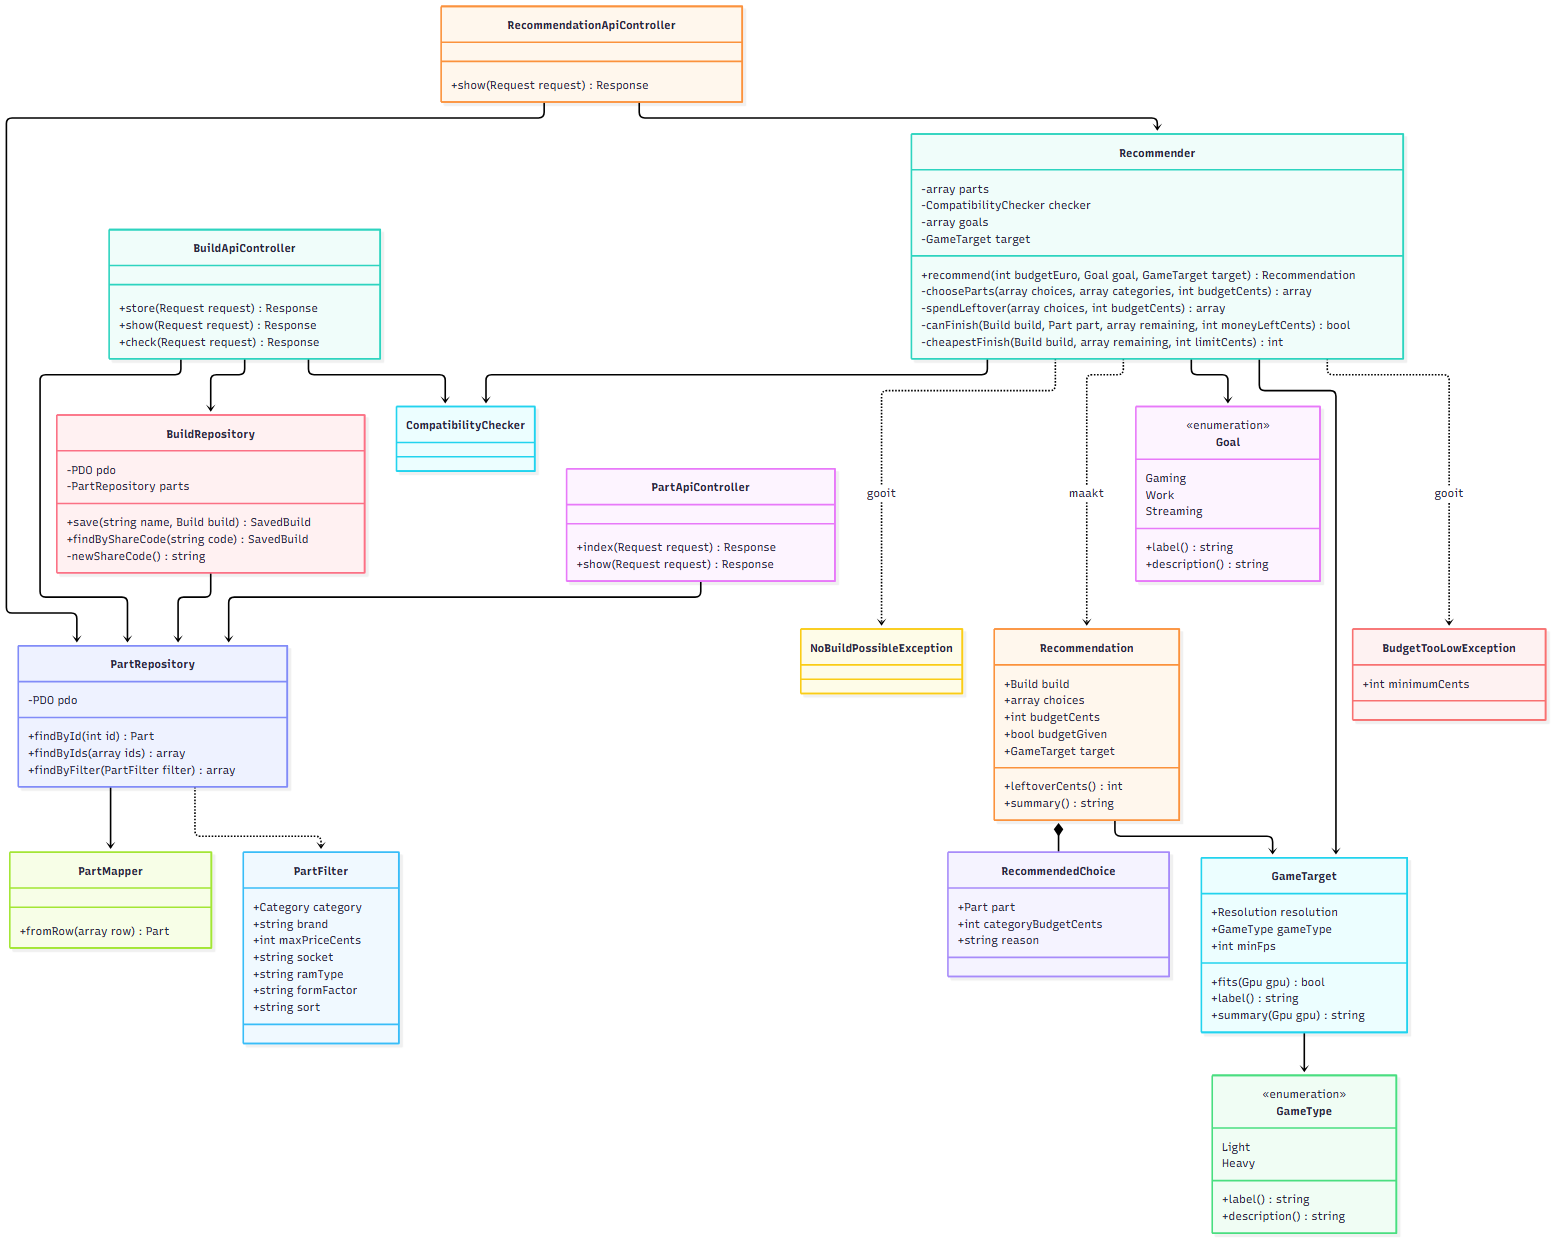
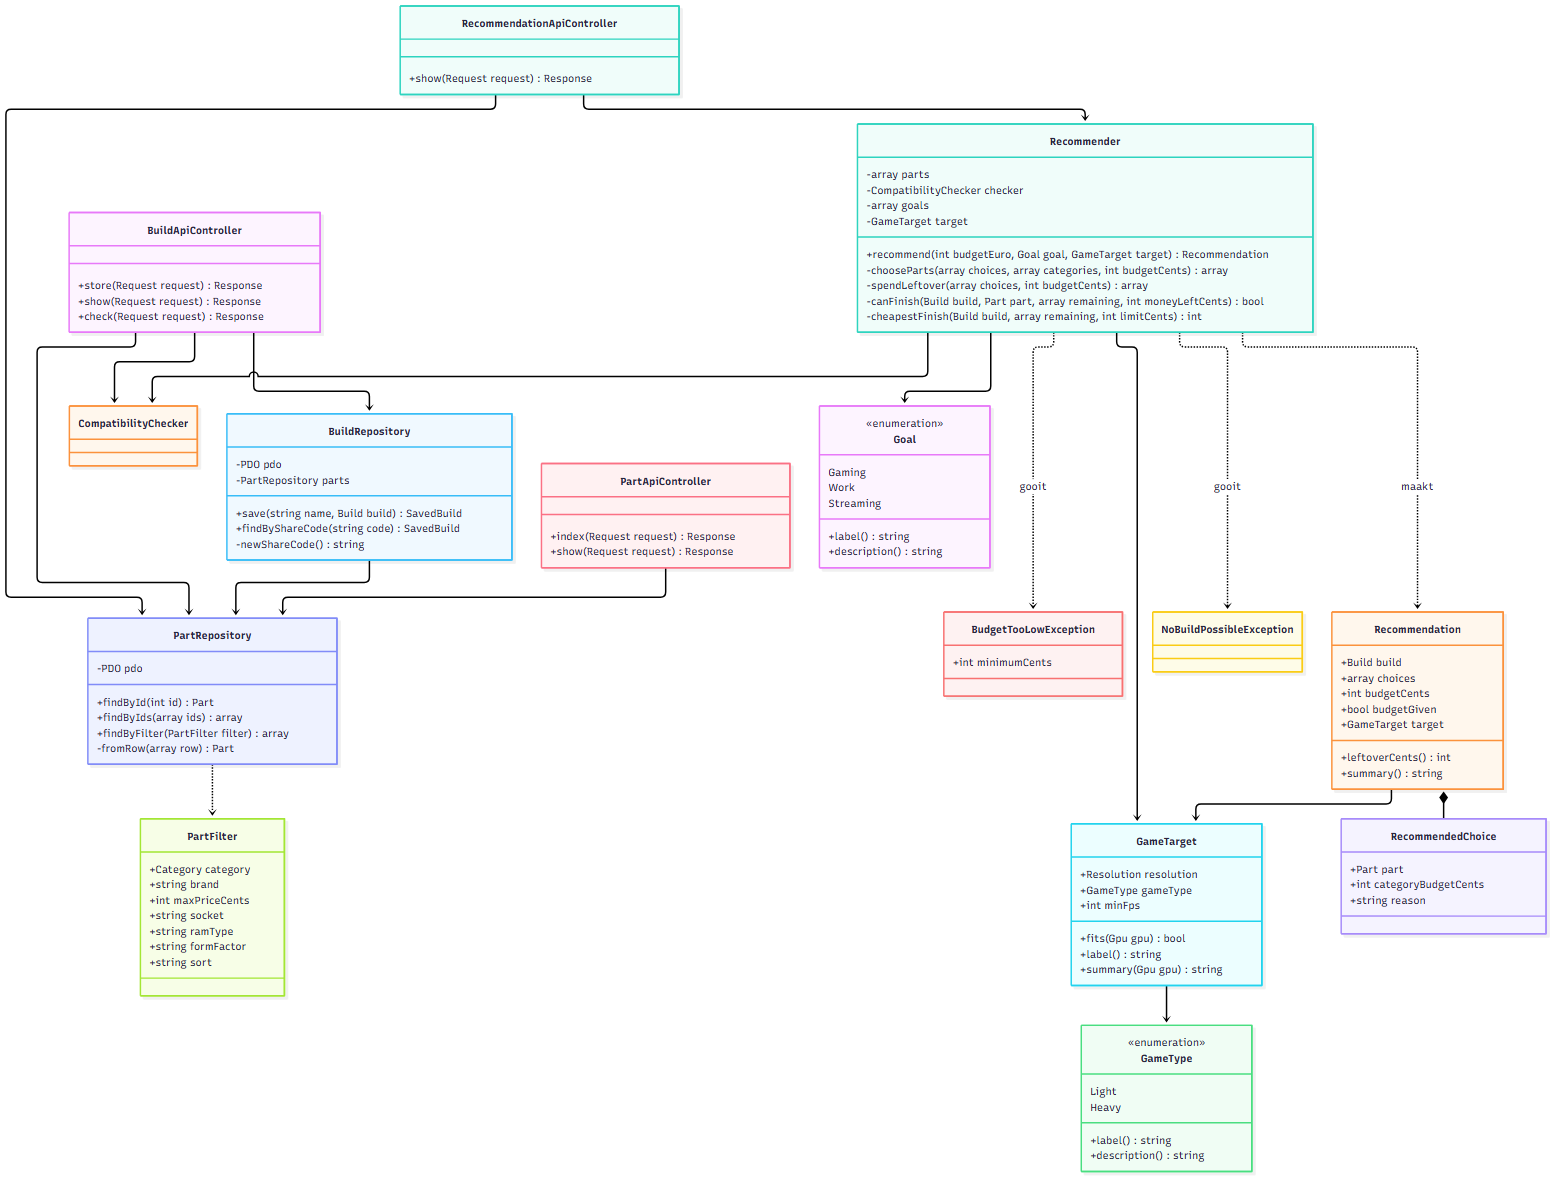
docs: ontwerp bijgewerkt na de refactor (#30)

diff --git a/docs/ontwerp.md b/docs/ontwerp.md
@@ -315,7 +315,6 @@ classDiagram
         +gpu() Gpu
         +cooler() Cooler
         +pcCase() PcCase
-        +storage() StorageDrive
         +psu() Psu
     }
     class SavedBuild {
@@ -351,26 +350,19 @@ De klasse voor een kast heet `PcCase`, omdat `case` in PHP een gereserveerd woor
 
 ```mermaid
 classDiagram
-    class CompatibilityRule {
-        <<interface>>
-        +name() string
-        +requiredCategories() array
-        +evaluate(Build build) RuleResult
-    }
-    class SocketRule
-    class RamTypeRule
-    class FormFactorRule
-    class PsuWattageRule {
-        -int marginPercent
-    }
-    class GpuLengthRule
-    class CoolerHeightRule
-    class IntegratedGraphicsRule
     class CompatibilityChecker {
-        -array rules
-        +withAllRules(int psuMarginPercent) CompatibilityChecker$
+        -array RULES$
+        -int psuMarginPercent
         +check(Build build) CheckReport
         +problemsFor(Build build, Part candidate) array
+        -runRule(string rule, Build build) RuleResult
+        -socketRule(Build build) array
+        -ramTypeRule(Build build) array
+        -formFactorRule(Build build) array
+        -psuWattageRule(Build build) array
+        -gpuLengthRule(Build build) array
+        -coolerHeightRule(Build build) array
+        -graphicsRule(Build build) array
     }
     class CheckReport {
         +array results
@@ -404,23 +396,15 @@ classDiagram
         +label() string
     }
 
-    CompatibilityRule <|.. SocketRule
-    CompatibilityRule <|.. RamTypeRule
-    CompatibilityRule <|.. FormFactorRule
-    CompatibilityRule <|.. PsuWattageRule
-    CompatibilityRule <|.. GpuLengthRule
-    CompatibilityRule <|.. CoolerHeightRule
-    CompatibilityRule <|.. IntegratedGraphicsRule
-    CompatibilityChecker o-- CompatibilityRule : voert uit
     CompatibilityChecker ..> CheckReport : maakt
     CheckReport *-- RuleResult
     RuleResult --> CheckStatus
     CheckReport ..> OverallStatus
 ```
 
-Elke regel is een eigen klasse met dezelfde interface. De `CompatibilityChecker` kijkt eerst met `requiredCategories()` of de onderdelen voor een regel gekozen zijn. Is dat niet zo, dan maakt de checker zelf een resultaat "nog niet gecontroleerd". Pas als alles er is, roept hij `evaluate()` aan. Zo staat de controle op ontbrekende onderdelen maar op één plek. Een nieuwe regel toevoegen (zoals F-21) betekent: één nieuwe klasse schrijven en die aan de lijst van de checker toevoegen.
+Alle regels staan in de `CompatibilityChecker`, elke regel in een eigen private methode, zoals `socketRule()`. De constante `RULES` zegt per regel welke onderdelen nodig zijn. `runRule()` kijkt eerst of die onderdelen gekozen zijn. Is dat niet zo, dan geeft hij zelf het resultaat "nog niet gecontroleerd". Pas als alles er is, roept hij de methode van de regel aan. Die geeft een status en een melding terug. Zo staat de controle op ontbrekende onderdelen maar op één plek. Een nieuwe regel toevoegen betekent: een regel in `RULES`, een regel in de `match` van `runRule()` en een nieuwe methode.
 
-`withAllRules()` maakt een checker met alle zeven regels. De marge van de voeding komt uit `config/app.php`.
+Tot 3 november was elke regel een eigen klasse met een interface `CompatibilityRule`. Waarom dat veranderd is, staat in [keuzes.md](keuzes.md). De marge van de voeding komt via de constructor uit `config/app.php`.
 
 `problemsFor()` wordt gebruikt om onderdelen grijs te maken (F-12): de checker probeert het onderdeel in een kopie van de build en geeft de fouten en waarschuwingen terug die dat oplevert. Een probleem telt mee als de regel over dit onderdeel gaat, of als het probleem er zonder dit onderdeel niet was. Zo krijgt een videokaart die de voeding overbelast ook een melding, en krijgt een SSD niet de schuld van een verkeerde socket.
 
@@ -485,9 +469,7 @@ classDiagram
         +findById(int id) Part
         +findByIds(array ids) array
         +findByFilter(PartFilter filter) array
-    }
-    class PartMapper {
-        +fromRow(array row) Part
+        -fromRow(array row) Part
     }
     class PartFilter {
         +Category category
@@ -528,7 +510,6 @@ classDiagram
     Recommendation *-- RecommendedChoice
     Recommendation --> GameTarget
     PartRepository ..> PartFilter
-    PartRepository --> PartMapper
     PartApiController --> PartRepository
     BuildApiController --> PartRepository
     BuildApiController --> BuildRepository
@@ -538,7 +519,9 @@ classDiagram
     RecommendationApiController --> PartRepository
 ```
 
-De paginacontrollers (`HomePageController`, `BuildPageController`, `RecommendationPageController`) gebruiken dezelfde repositories en logica als de API-controllers, maar geven HTML terug in plaats van JSON.
+De paginacontrollers (`BuildPageController`, `RecommendationPageController`) gebruiken dezelfde repositories en logica als de API-controllers, maar geven HTML terug in plaats van JSON. De startpagina heeft geen eigen controller: die route is één regel in `Application`, omdat er niets te doen is behalve de template tonen.
+
+`PartRepository::fromRow()` maakt van een rij uit de view het juiste object, bij categorie `cpu` een `Cpu`. Dat stond eerst in een aparte klasse `PartMapper`, maar alleen de `PartRepository` gebruikte die.
 
 `budgetEuro` en `target` mogen leeg (`null`) zijn. Zonder budget wordt het budget het minimum (F-32). Zonder `GameTarget` telt alleen het budget, zoals bij werken. `Resolution` en `GameType` zijn enums, zodat er geen ander scherm of soort games in kan komen dan de drie en twee die er zijn. De minimale FPS per soort games komt uit `config/app.php`.
 
@@ -686,13 +669,13 @@ Voorbeeld met 30% marge en een verbruik van 450 W: nodig is 585 W. Een voeding v
 
 | Regel | Eis | Nodig | In orde als | Voorbeeld van een foutmelding |
 |---|---|---|---|---|
-| SocketRule | F-05 | processor, moederbord | socket processor = socket moederbord | De processor heeft socket AM5, maar het moederbord heeft socket AM4. |
-| RamTypeRule | F-06 | moederbord, geheugen | RAM-type geheugen = RAM-type moederbord | Het geheugen is DDR4, maar het moederbord ondersteunt alleen DDR5. |
-| FormFactorRule | F-07 | moederbord, kast | `size_rank` moederbord ≤ `size_rank` grootste formaat kast | Het moederbord is ATX, maar in deze kast past maximaal Micro-ATX. |
-| PsuWattageRule | F-08 | voeding, processor | zie 5.1 | De voeding levert 400 W, maar de onderdelen verbruiken samen ongeveer 450 W. |
-| GpuLengthRule | F-09 | kast | geen videokaart, of lengte videokaart ≤ maximale lengte kast | De videokaart is 336 mm lang, maar in deze kast past maximaal 305 mm. |
-| CoolerHeightRule | F-10 | koeler, kast | hoogte koeler ≤ maximale koelerhoogte kast | De koeler is 168 mm hoog, maar in deze kast past maximaal 155 mm. |
-| IntegratedGraphicsRule | F-21 | processor | er is een videokaart, of de processor heeft ingebouwde graphics | Deze processor heeft geen ingebouwde graphics. Zonder videokaart krijg je geen beeld. |
+| `socketRule()` | F-05 | processor, moederbord | socket processor = socket moederbord | De processor heeft socket AM5, maar het moederbord heeft socket AM4. |
+| `ramTypeRule()` | F-06 | moederbord, geheugen | RAM-type geheugen = RAM-type moederbord | Het geheugen is DDR4, maar het moederbord ondersteunt alleen DDR5. |
+| `formFactorRule()` | F-07 | moederbord, kast | `size_rank` moederbord ≤ `size_rank` grootste formaat kast | Het moederbord is ATX, maar in deze kast past maximaal Micro-ATX. |
+| `psuWattageRule()` | F-08 | voeding, processor | zie 5.1 | De voeding levert 400 W, maar de onderdelen verbruiken samen ongeveer 450 W. |
+| `gpuLengthRule()` | F-09 | kast | geen videokaart, of lengte videokaart ≤ maximale lengte kast | De videokaart is 336 mm lang, maar in deze kast past maximaal 305 mm. |
+| `coolerHeightRule()` | F-10 | koeler, kast | hoogte koeler ≤ maximale koelerhoogte kast | De koeler is 168 mm hoog, maar in deze kast past maximaal 155 mm. |
+| `graphicsRule()` | F-21 | processor | er is een videokaart, of de processor heeft ingebouwde graphics | Deze processor heeft geen ingebouwde graphics. Zonder videokaart krijg je geen beeld. |
 
 De voedingsregel heeft naast de voeding ook de processor nodig. Zonder processor zou het verbruik heel laag uitvallen en zou elke voeding "in orde" zijn, wat de gebruiker op het verkeerde been zet.
 
@@ -992,7 +975,7 @@ Vaste onderdelen van de stijl:
 | F-32 | `Input::budget()`, `Recommender::recommend()` (§7.2) |
 | F-18 | REST API (§8) |
 | F-19 | `RecommendationPageController::adopt()`, `WorkingBuild::replaceWith()` |
-| F-21 | Extra regel `IntegratedGraphicsRule` (zelfde interface als §4.2) |
+| F-21 | Regel `graphicsRule()` in de `CompatibilityChecker` (§4.2, §6) |
 | NF-01, NF-02 | `public/css/style.css`, templates |
 | NF-03 | `PartRepository` en `BuildRepository` met prepared statements, escaping in de templates |
 | NF-04 | `config/app.php`, `.env` |
